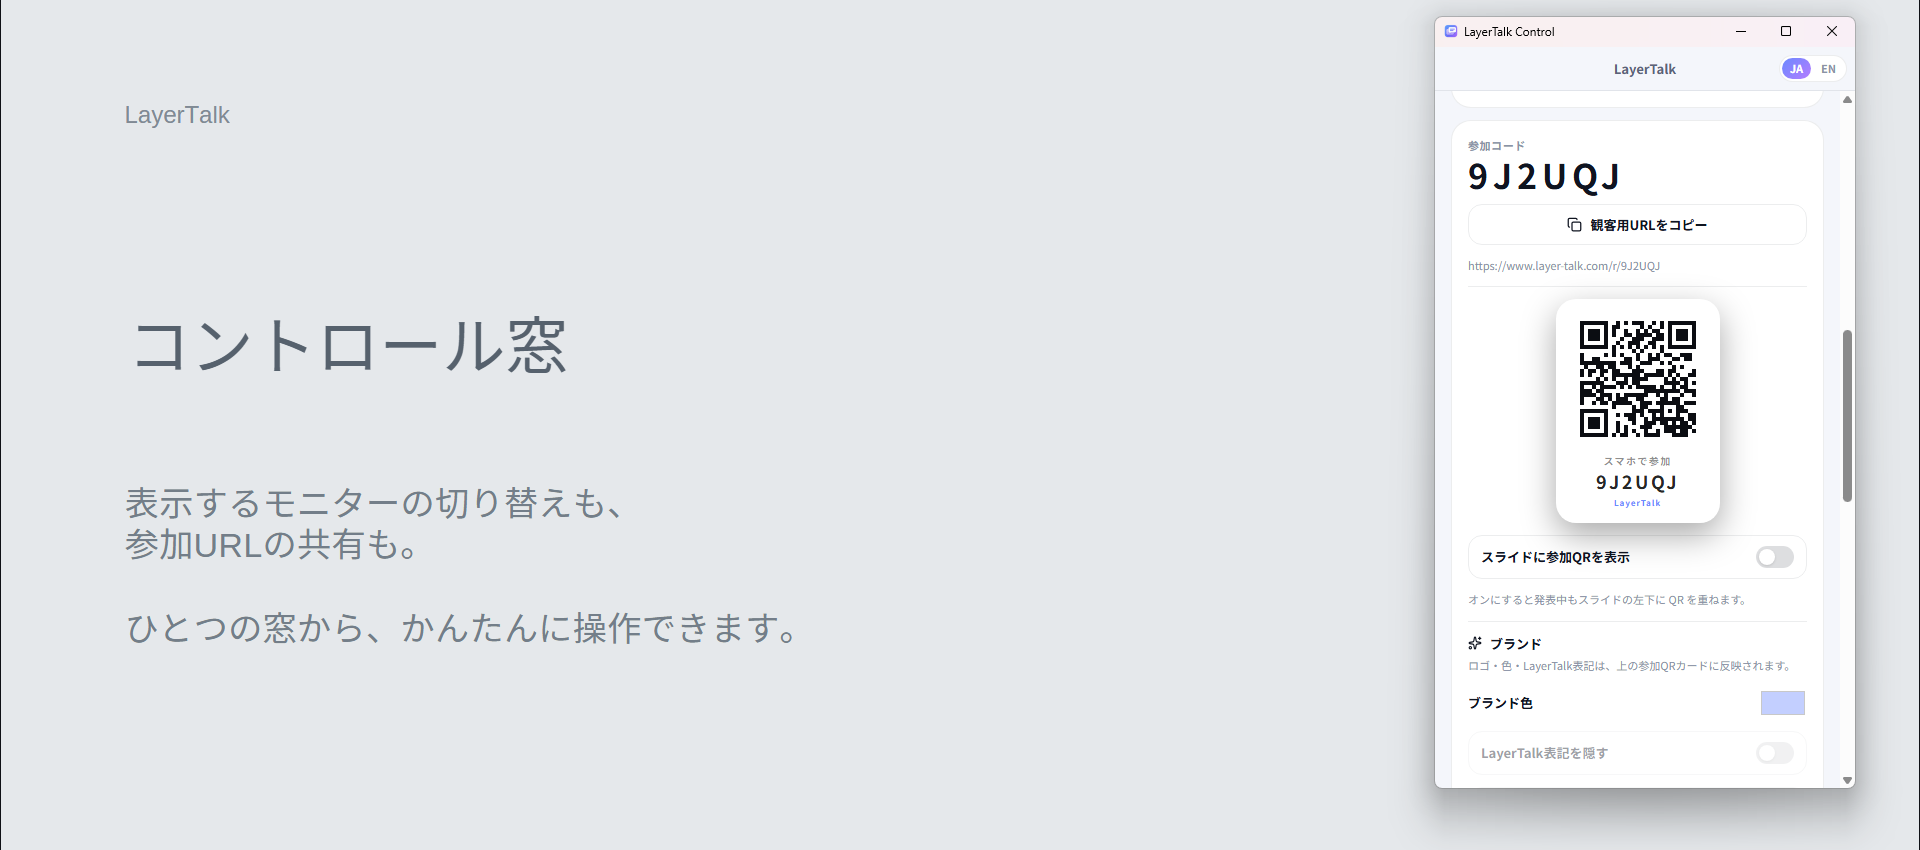
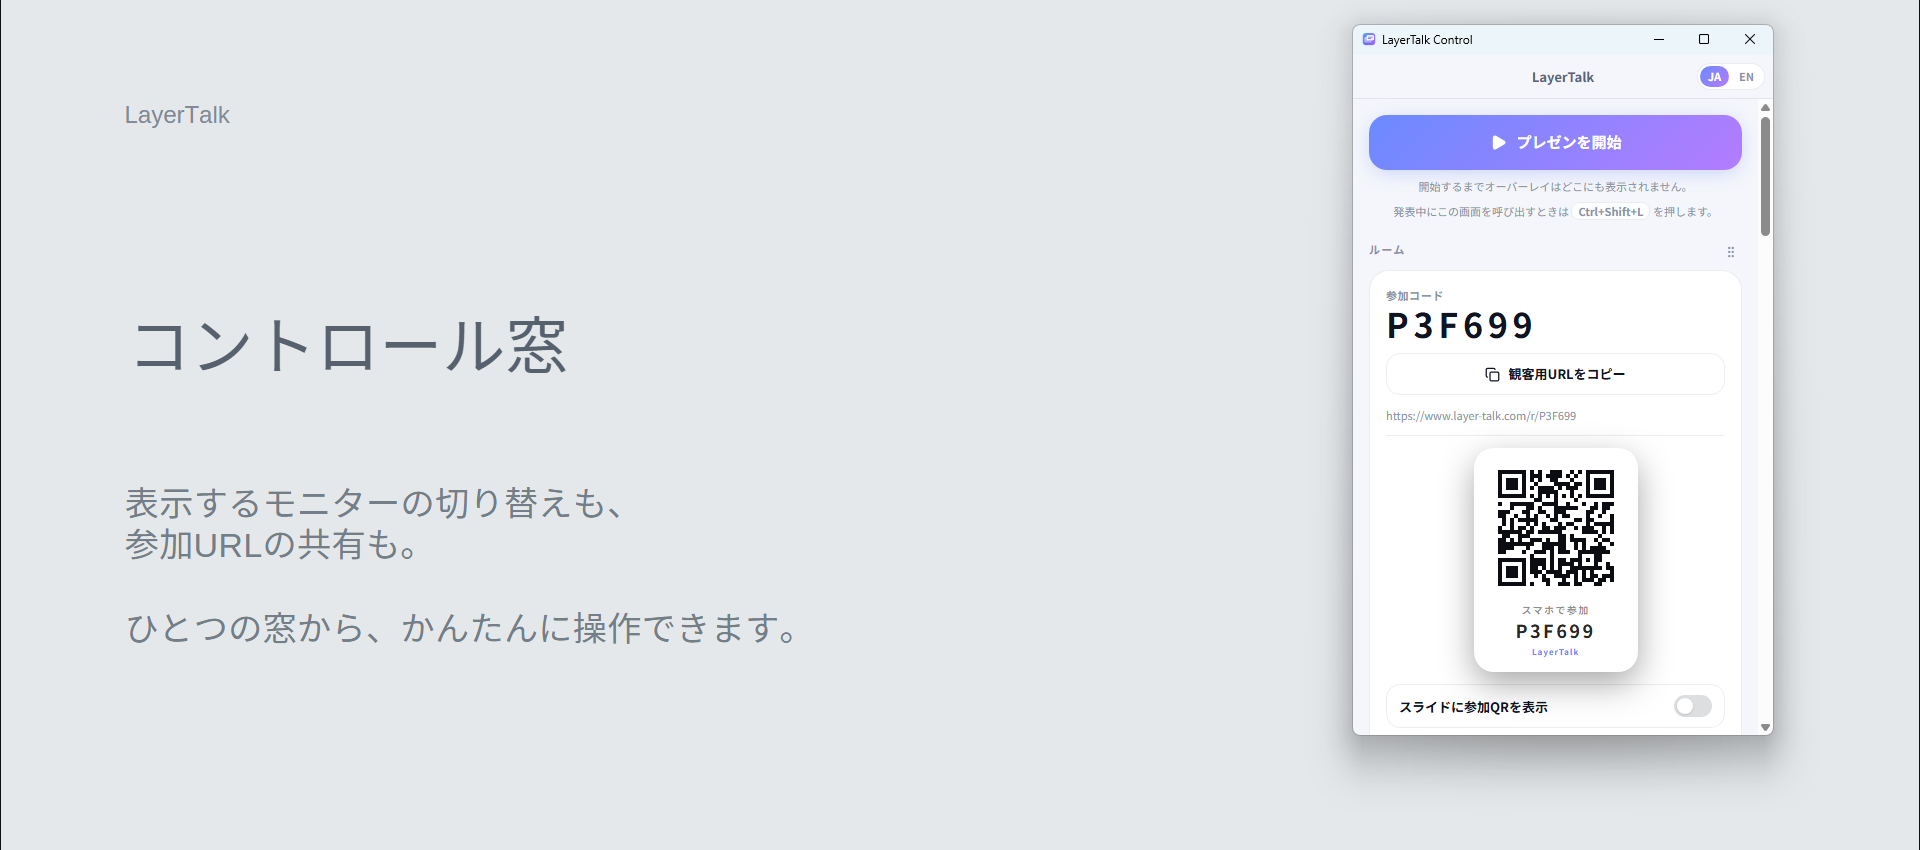
Windows のコントロール窓を 1.0.1 で撮り直す
1.0.0 の画像は参加コードの上に「開始時に参加URLを送信」の見切れが写って
いたが、今回それを参加コードの下へ移したので実物と合わなくなっていた。
開始ボタンも入って構図自体も良くなっている。

VM は仮想ディスプレイ1台なので「コメントを出す画面」はラジオではなく
1文になる。Windows の不具合ではないことを表に書き添えた。

Changed region(s): [[0.6875, 0.0, 1.0, 0.9788]]

diff --git a/docs/ms-store-listing.md b/docs/ms-store-listing.md
@@ -167,17 +167,23 @@ reports, and branding for one room for seven days. It does not renew automatical
 > （Windows では Segoe UI Emoji になる）。審査で問題になる水準ではないが、
 > 気になるなら撮り直す。
 
-### 用意できているもの（2026-10-10）
+### 用意できているもの（2026-10-11）
 
 | アップロードするファイル | 出どころ | 寸法 |
 |---|---|---|
 | `assets/コメント表示-appstore.png` | App Store 版から流用 | 1440×900 |
 | `assets/質問パネル-appstore.png` | 同上 | 1440×900 |
 | `assets/参加QR-appstore.png` | 同上 | 1440×900 |
-| `assets/コントロール窓_windows.png` | VM で撮影 | 1920×850 |
-| `assets/安全管理_windows.png` | VM で撮影 | 1920×850 |
+| `assets/コントロール窓_windows.png` | VM で撮影（**1.0.1 で撮り直し**） | 1920×850 |
+| `assets/安全管理_windows.png` | VM で撮影（**1.0.1 で撮り直し**） | 1920×850 |
 | `assets/イベントパス_windows.png` | VM で撮影 | 1920×850 |
 | `assets/ms-store-tile-300.png` | `icons/icon.png` を縮小 | 300×300 |
+
+> **VM は仮想ディスプレイ1台なので、「コメントを出す画面」はラジオではなく
+> 「このPCの画面に出します。…」の1文になる。** Windows 側の不具合ではない
+> （1.0.0 の画像にも「現在つながっているディスプレイは1台です」と出ている）。
+> 2行のセレクタを Windows でも見せたいなら、VM にディスプレイを2つ割り当てる。
+> いまは Mac 版の1枚がそれを見せているので、揃えていない。
 
 最後の1枚は**スクリーンショットではなくアプリタイルアイコン**（1:1）。登録すると
 ストアがパッケージ内のアイコンより優先して使う。
